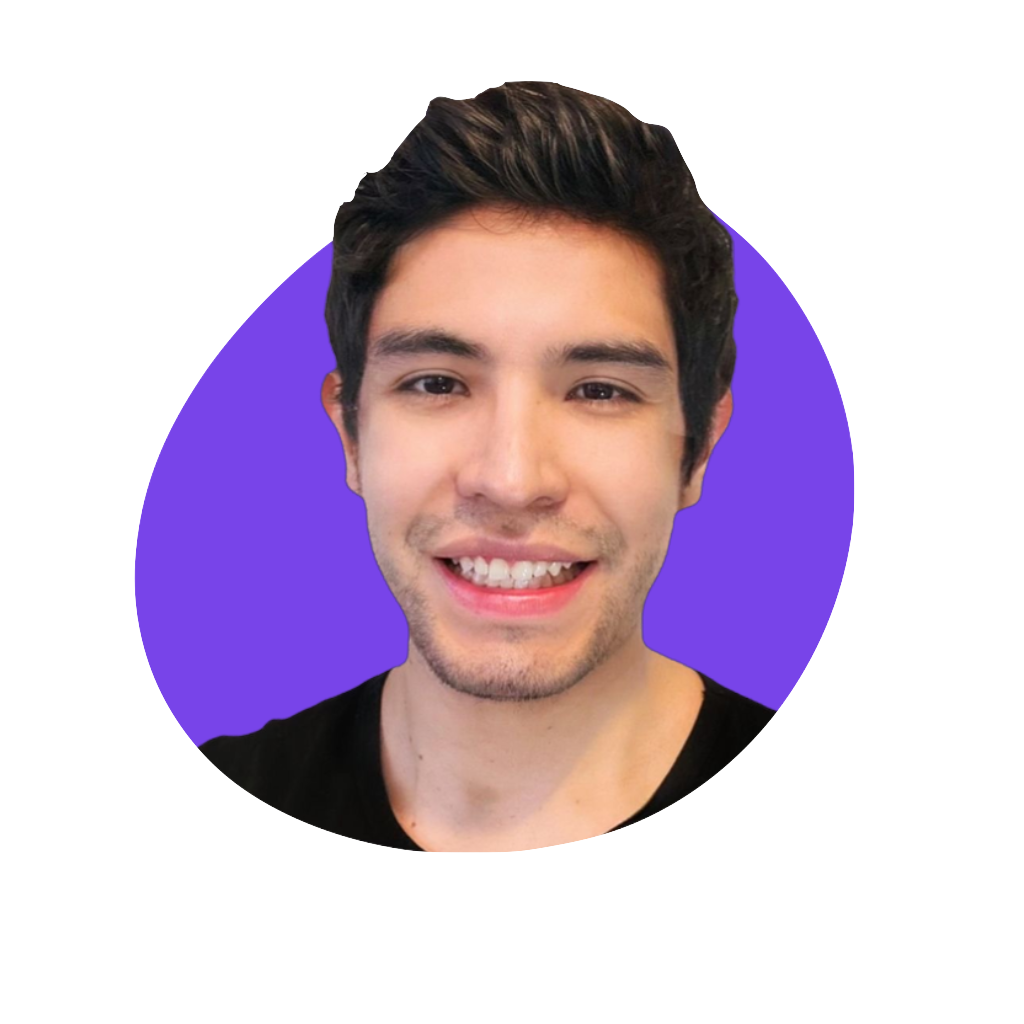
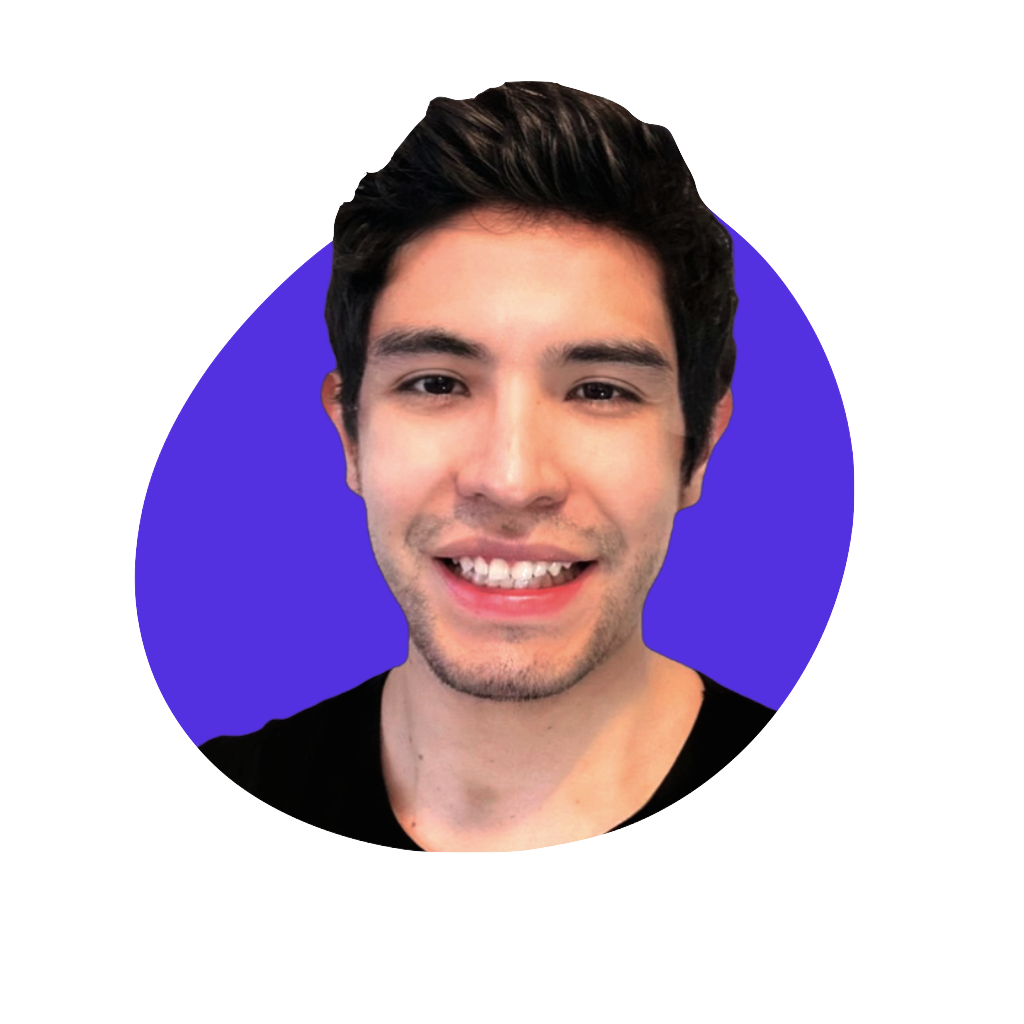
refactor: update project descriptions and titles
Swapped titles and descriptions of projects in Projects component for clarity and consistency.

Changed region(s): [[0.125, 0.2188, 0.4062, 0.75], [0.625, 0.2188, 0.8438, 0.6875], [0.4688, 0.5312, 0.5312, 0.5625]]

diff --git a/src/components/Projects.tsx b/src/components/Projects.tsx
@@ -1,54 +1,86 @@
-
-import { ExternalLink, Github } from "lucide-react";
-import { Button } from "./ui/button";
+import { ExternalLink, Github } from 'lucide-react';
+import { Button } from './ui/button';
 
 const projects = [
   {
-    title: "E-commerce Platform",
+    title: 'AI Image Generator',
     description:
-      "A full-stack e-commerce platform with real-time inventory management and payment processing.",
-    tech: ["React", "Node.js", "MongoDB", "Stripe"],
-    github: "#",
-    demo: "#",
+      'An AI-powered image generation tool that creates unique artwork based on text descriptions.',
+    tech: ['Python', 'TensorFlow', 'Flask', 'React'],
+    github: '#',
+    demo: '#',
+    image: 'https://images.ctfassets.net/kftzwdyauwt9/3gDBc446Nxn0ByyZMZdFVD/1e993b5470a4fc82279d2099ddef8321/Catcus_Heatmap_2.png?w=1920&q=90&fm=webp'
   },
   {
-    title: "Task Management App",
+    title: 'E-commerce Platform',
     description:
-      "A collaborative task management application with real-time updates and team features.",
-    tech: ["Next.js", "TypeScript", "PostgreSQL", "WebSocket"],
-    github: "#",
-    demo: "#",
+      'A full-stack e-commerce platform with real-time inventory management and payment processing.',
+    tech: ['React', 'Node.js', 'MongoDB', 'Stripe'],
+    github: '#',
+    demo: '#',
+    image: 'https://images.ctfassets.net/kftzwdyauwt9/4ees89KOlUbxX1vrtf7hTt/3aa15359652b70c1c89314133c408eb1/EF_Fanatics_Website_Card_16.9.png?w=1920&q=90&fm=webp'
   },
   {
-    title: "AI Image Generator",
+    title: 'Task Management App',
     description:
-      "An AI-powered image generation tool that creates unique artwork based on text descriptions.",
-    tech: ["Python", "TensorFlow", "Flask", "React"],
-    github: "#",
-    demo: "#",
+      'A collaborative task management application with real-time updates and team features.',
+    tech: ['Next.js', 'TypeScript', 'PostgreSQL'],
+    github: '#',
+    demo: '#',
+    image: 'https://images.ctfassets.net/kftzwdyauwt9/7IRbWsHhfHdJjDOIvTtwHr/9f3af506880dfb883a2848a7b96df1df/EF_Wayfair_Website_Card_16.9.png?w=1920&q=90&fm=webp'
   },
+
 ];
 
 export const Projects = () => {
   return (
-    <section className="py-20 px-4 bg-soft-gray dark:bg-background" id="projects" aria-labelledby="projects-heading">
+    <section
+      className="py-20 px-4 bg-soft-gray dark:bg-background"
+      id="projects"
+      aria-labelledby="projects-heading"
+    >
       <div className="max-w-6xl mx-auto">
         <header className="text-center mb-16 animate-fade-up">
-          <span className="px-4 py-1.5 rounded-full text-sm font-medium bg-soft-purple dark:bg-purple-400/30 dark:text-purple-300 dark:bg-dark-purple inline-block">
+          <span className="px-4 py-1.5 rounded-full text-sm font-medium bg-soft-blue dark:bg-blue-400/30 dark:text-blue-300 dark:bg-dark-purple inline-block">
             Portfolio
           </span>
-          <h2 id="projects-heading" className="text-3xl font-bold mt-4 dark:text-white ">Featured Projects</h2>
+          <h2
+            id="projects-heading"
+            className="text-3xl font-bold mt-4 dark:text-white "
+          >
+            Featured Projects
+          </h2>
         </header>
         <div className="grid grid-cols-1 md:grid-cols-2 lg:grid-cols-3 gap-6">
           {projects.map((project, index) => (
             <article
               key={project.title}
-              className="overflow-hidden backdrop-blur-sm bg-white/50 dark:bg-gray-800 dark:bg-dark-card/50 hover:bg-white/80 dark:hover:bg-dark-card/80 transition-colors animate-fade-up rounded-lg shadow-sm"
+              className="overflow-hidden backdrop-blur-sm bg-white/50 dark:bg-black dark:bg-dark-card/50 hover:bg-white/80 dark:hover:bg-dark-card/80 transition-colors animate-fade-up rounded-lg shadow-sm"
               style={{ animationDelay: `${index * 100}ms` }}
             >
               <div className="p-6">
-                <h3 className="font-semibold text-lg mb-2 dark:text-white">{project.title}</h3>
-                <p className="text-muted-foreground dark:text-muted-dark mb-4">{project.description}</p>
+
+
+                {/* <video
+                  playsInline
+                  autoPlay
+                  loop
+                  className=" rounded mb-4 min-w-full left-0 top-0 h-2/3 w-full"
+                >
+                  <source
+                    src="//videos.ctfassets.net/kftzwdyauwt9/703OcfTBsCqNzLIj5vKIzz/f3a847c7100da0e46943f8acee91d18c/Research_16x9.mp4"
+                    type="video/mp4"
+                  />
+                  Your browser does not support the video tag.
+                </video> */}
+
+                <img src={project.image} className='w-full mb-4 rounded-sm' alt="" />
+                <h3 className="font-semibold text-lg mb-2 dark:text-white">
+                  {project.title}
+                </h3>
+                <p className="text-muted-foreground dark:text-muted-dark mb-4">
+                  {project.description}
+                </p>
                 <ul className="flex flex-wrap gap-2 mb-4">
                   {project.tech.map((tech) => (
                     <li
@@ -61,14 +93,27 @@ export const Projects = () => {
                 </ul>
                 <footer className="flex gap-4">
                   <Button variant="outline" size="sm" asChild>
-                    <a href={project.github} className="dark:text-white" rel="noopener noreferrer" target="_blank">
+                    <a
+                      href={project.github}
+                      className="dark:text-white"
+                      rel="noopener noreferrer"
+                      target="_blank"
+                    >
                       <Github className="w-4 h-4 mr-2" aria-hidden="true" />
                       <span>Code</span>
                     </a>
                   </Button>
                   <Button variant="outline" size="sm" asChild>
-                    <a href={project.demo} className="dark:text-white" rel="noopener noreferrer" target="_blank">
-                      <ExternalLink className="w-4 h-4 mr-2" aria-hidden="true" />
+                    <a
+                      href={project.demo}
+                      className="dark:text-white"
+                      rel="noopener noreferrer"
+                      target="_blank"
+                    >
+                      <ExternalLink
+                        className="w-4 h-4 mr-2"
+                        aria-hidden="true"
+                      />
                       <span>Demo</span>
                     </a>
                   </Button>

diff --git a/src/index.css b/src/index.css
@@ -52,10 +52,10 @@
   }
 
   .dark {
-    --background: 222.2 84% 4.9%;
+    --background: 252 91% 2%;
     --foreground: 210 40% 98%;
 
-    --card: 222.2 84% 4.9%;
+    --card: 222.2 23% 3%;
     --card-foreground: 210 40% 98%;
 
     --popover: 222.2 84% 4.9%;
@@ -72,13 +72,13 @@
     --muted: 217.2 32.6% 17.5%;
     --muted-foreground: 215 20.2% 65.1%;
 
-    --accent: 217.2 32.6% 17.5%;
+    --accent: 222.2 13% 19%;
     --accent-foreground: 210 40% 98%;
 
     --destructive: 0 62.8% 30.6%;
     --destructive-foreground: 210 40% 98%;
 
-    --border: 217.2 32.6% 17.5%;
+    --border: 222.2 13% 19%;
     --input: 217.2 32.6% 17.5%;
     --ring: 212.7 26.8% 83.9%;
 
@@ -107,6 +107,45 @@
   }
 }
 
+.underline--magical {
+  background-image: linear-gradient(120deg, #6348ff 0%, #e47aff 100%);
+  background-repeat: no-repeat;
+  background-size: 100% 0.3em;
+  background-position: 0 115%;
+}
+
+.underline-05 {
+  -webkit-text-decoration: underline wavy #4e1cc4;
+  text-decoration: underline wavy #6a30f0;
+}
+
+
+.gradient-drop-shadow {
+  filter: drop-shadow(0px 1px 30px #0055ff25)
+          drop-shadow(1px 0px 35px #8800ff2a);
+}
+.gradient-shadow {
+  position: relative;
+  z-index: 1;
+}
+
+.gradient-shadow::before {
+  content: "";
+  position: absolute;
+  top: -5px;
+  left: -5px;
+  right: -5px;
+  bottom: -5px;
+  background: linear-gradient(
+    45deg,
+    #0080ff,
+    #8800ff
+  );
+  border-radius: inherit;
+  z-index: -1;
+  filter: blur(10px);
+  opacity: 0.7;
+}
 
 
 /* Firefly effect */
@@ -145,11 +184,11 @@
 
 
 /* Individual firefly animations */
-.firefly:nth-child(1) { animation: move1 20s ease alternate infinite; }
-.firefly:nth-child(2) { animation: move2 20s ease alternate infinite; }
-.firefly:nth-child(3) { animation: move3 20s ease alternate infinite; }
-.firefly:nth-child(4) { animation: move4 20s ease alternate infinite; }
-.firefly:nth-child(5) { animation: move5 20s ease alternate infinite; }
+.firefly:nth-child(1) { animation: move1 25s ease alternate infinite; }
+.firefly:nth-child(2) { animation: move2 25s ease alternate infinite; }
+.firefly:nth-child(3) { animation: move3 25s ease alternate infinite; }
+.firefly:nth-child(4) { animation: move4 25s ease alternate infinite; }
+.firefly:nth-child(5) { animation: move5 25s ease alternate infinite; }
 
 @keyframes drift {
   0% { transform: rotate(0deg); }

diff --git a/src/components/home/ProfileSection.tsx b/src/components/home/ProfileSection.tsx
@@ -17,13 +17,16 @@ const iconMap = {
 
 export const ProfileSection = React.memo(({ socialLinks }: ProfileSectionProps) => {
   return (
-    <section className="space-y-4 animate-fade-up mt-32 md:mt-32 lg:mt-0" aria-label="Introduction">
-      <figure className="relative">
-        <div className="w-32 h-32 rounded-full overflow-hidden ring-4 ring-primary/10 shadow-xl mx-auto lg:mr-auto lg:ml-0 ">
+    <section className="space-y-4 animate-fade-up mt-32 md:mt-32 lg:mt-3 " aria-label="Introduction">
+      <figure className="relative ">
+
+        <div className="  w-36 h-36 rounded-full  ring-4 ring-primary/10 mx-auto lg:mr-auto lg:ml-0 ">
+
+
           <img
             src={Profile}
             alt="Christian RG - Software Engineer"
-            className="w-full h-full object-cover"
+            className="w-full h-full object-cover drop-shadow-md "
             loading="lazy"
           />
         </div>
@@ -31,15 +34,18 @@ export const ProfileSection = React.memo(({ socialLinks }: ProfileSectionProps) 
 
       <div className="space-y-2 text-center lg:text-left">
         <span className="px-4 py-1.5 rounded-full text-sm font-medium bg-soft-purple inline-block dark:bg-purple-400/30 dark:text-purple-300">
-          Software Engineer
+          Full Stack Developer
         </span>
         <span className="px-4 py-1.5 rounded-full text-sm font-medium bg-soft-blue inline-block ml-2 dark:bg-blue-400/30 dark:text-blue-300">
           Tech Lead
         </span>
+        <span className="px-4 py-1.5 rounded-full text-sm font-medium bg-indigo-100 inline-block ml-2 dark:bg-indigo-400/30 dark:text-indigo-300">
+          AI Practitioner
+        </span>
       </div>
 
       <h2 className="text-2xl md:text-3xl font-semibold text-primary text-center lg:text-left">
-        Hello, I'm Christian 👋
+        Hello, I'm <span className='underline-05'>Christian</span>  👋
       </h2>
 
       <div className="prose prose-lg text-center lg:text-left pt-4">

diff --git a/src/components/home/SkillCard.tsx b/src/components/home/SkillCard.tsx
@@ -1,12 +1,12 @@
 import { type Skill, type ProficiencyLevel } from '@/types';
 import React from 'react';
-import { 
-  Code2, 
-  Server, 
-  Database, 
-  Container, 
-  GitBranch, 
-  Globe, 
+import {
+  Code2,
+  Server,
+  Database,
+  Container,
+  GitBranch,
+  Globe,
   Workflow,
   TestTube,
   type LucideIcon
@@ -75,8 +75,8 @@ const getExperienceYears = (level: ProficiencyLevel): string => {
 
 const itemVariants = {
   hidden: { opacity: 0, y: 20 },
-  show: { 
-    opacity: 1, 
+  show: {
+    opacity: 1,
     y: 0,
     transition: {
       type: "spring",
@@ -92,19 +92,19 @@ export const SkillCard = React.memo(({ category, items, animationDelay }: SkillC
       variants={itemVariants}
       className="h-fit transform hover:scale-[1.02] transition-transform duration-200"
     >
-      <Card className="overflow-hidden backdrop-blur-sm bg-white/50 dark:bg-gray-800/50 hover:bg-white/80 dark:hover:bg-gray-800/80">
+      <Card className="overflow-hidden backdrop-blur-sm bg-white/50 dark:bg-black hover:bg-white/80">
         <div className="p-6">
           <h3 className="font-semibold mb-4 text-lg">{category}</h3>
           <ul className="space-y-4">
             {items.map((item, index) => {
               const Icon = getTechIcon(item.name);
               return (
-                <motion.li 
+                <motion.li
                   key={item.name}
                   initial={{ opacity: 0, x: -10 }}
                   animate={{ opacity: 1, x: 0 }}
-                  transition={{ 
-                    duration: 0.2, 
+                  transition={{
+                    duration: 0.2,
                     delay: (animationDelay * 0.001) + (index * 0.1),
                     ease: "easeOut"
                   }}

diff --git a/src/components/home/Hero.tsx b/src/components/home/Hero.tsx
@@ -26,8 +26,8 @@ export const Hero = React.memo(() => {
       <div className="max-w-7xl w-full mx-auto grid grid-cols-1 lg:grid-cols-2 gap-12 lg:gap-20 text-left">
         <div className="text-center lg:text-left flex items-center animate-fade-down">
           <div className="space-y-6">
-            <h1 className="text-6xl md:text-6xl lg:text-7xl font-bold tracking-tight text-center lg:text-right text-foreground dark:text-white">
-              <span className="bg-gradient-to-r from-blue-400 via-indigo-500 to-purple-500 bg-clip-text text-transparent">
+            <h1 className="text-6xl md:text-6xl lg:text-8xl font-bold tracking-tight text-center lg:text-right text-foreground dark:text-white">
+              <span className="gradient-drop-shadow bg-gradient-to-r from-blue-400 via-indigo-500 to-purple-500 bg-clip-text text-transparent">
                 Software Engineer
               </span>
               & Creative Developer

diff --git a/src/pages/Index.tsx b/src/pages/Index.tsx
@@ -20,7 +20,7 @@ const Index = () => {
         <Navigation />
         <main id="main-content" className="relative z-10">
           <Hero />
-          <Skills />
+
           <Projects />
           <Reviews />
           <Contact />
